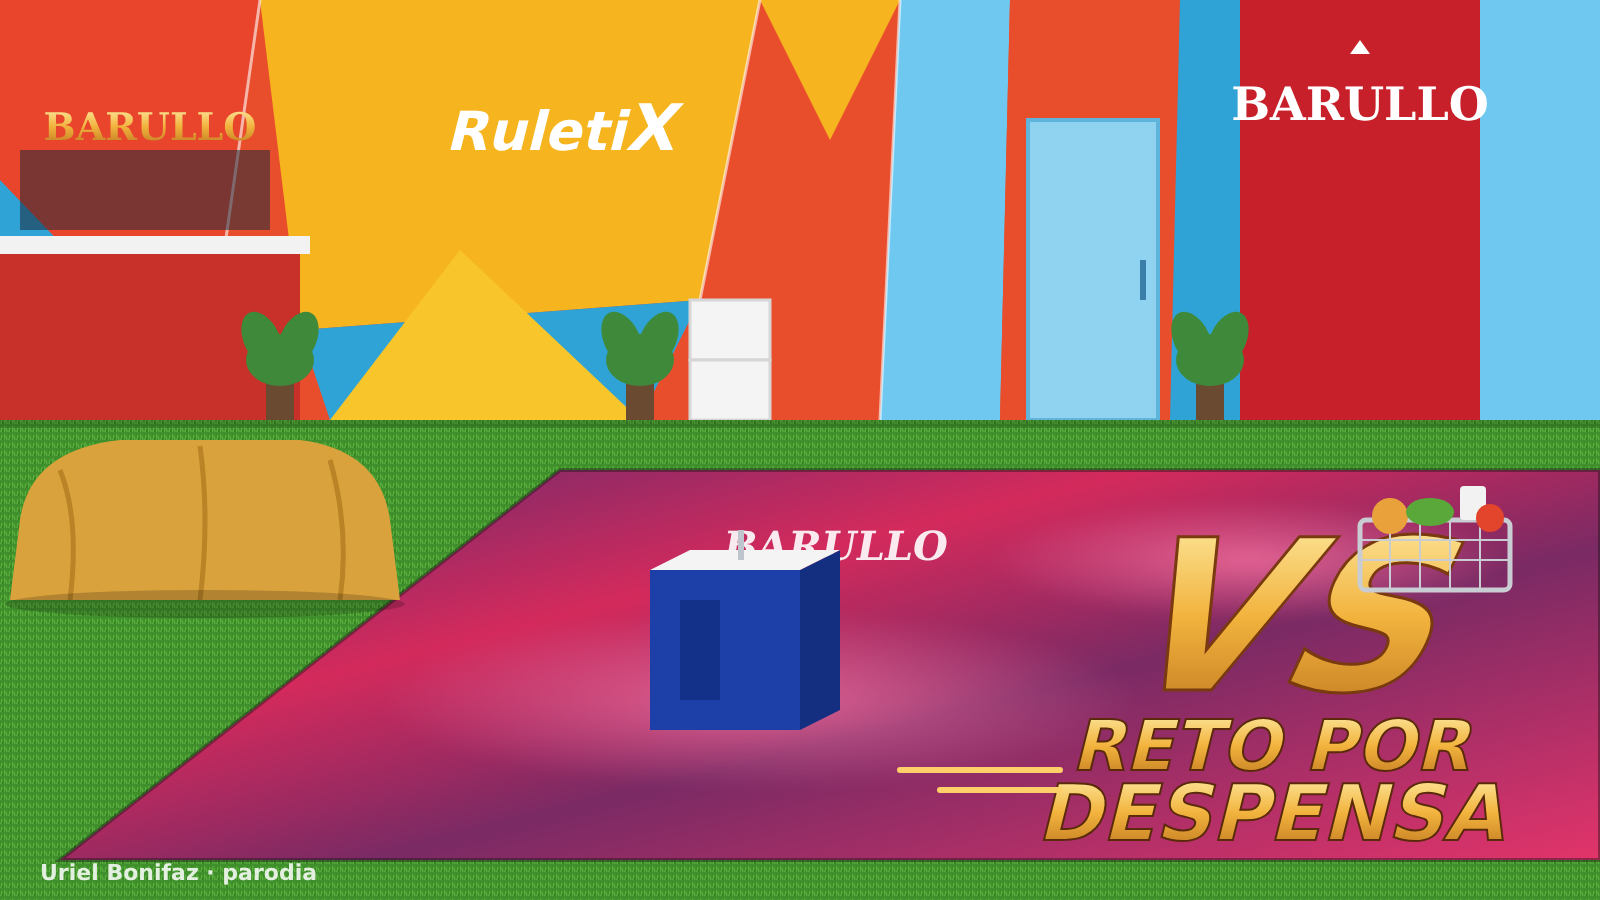
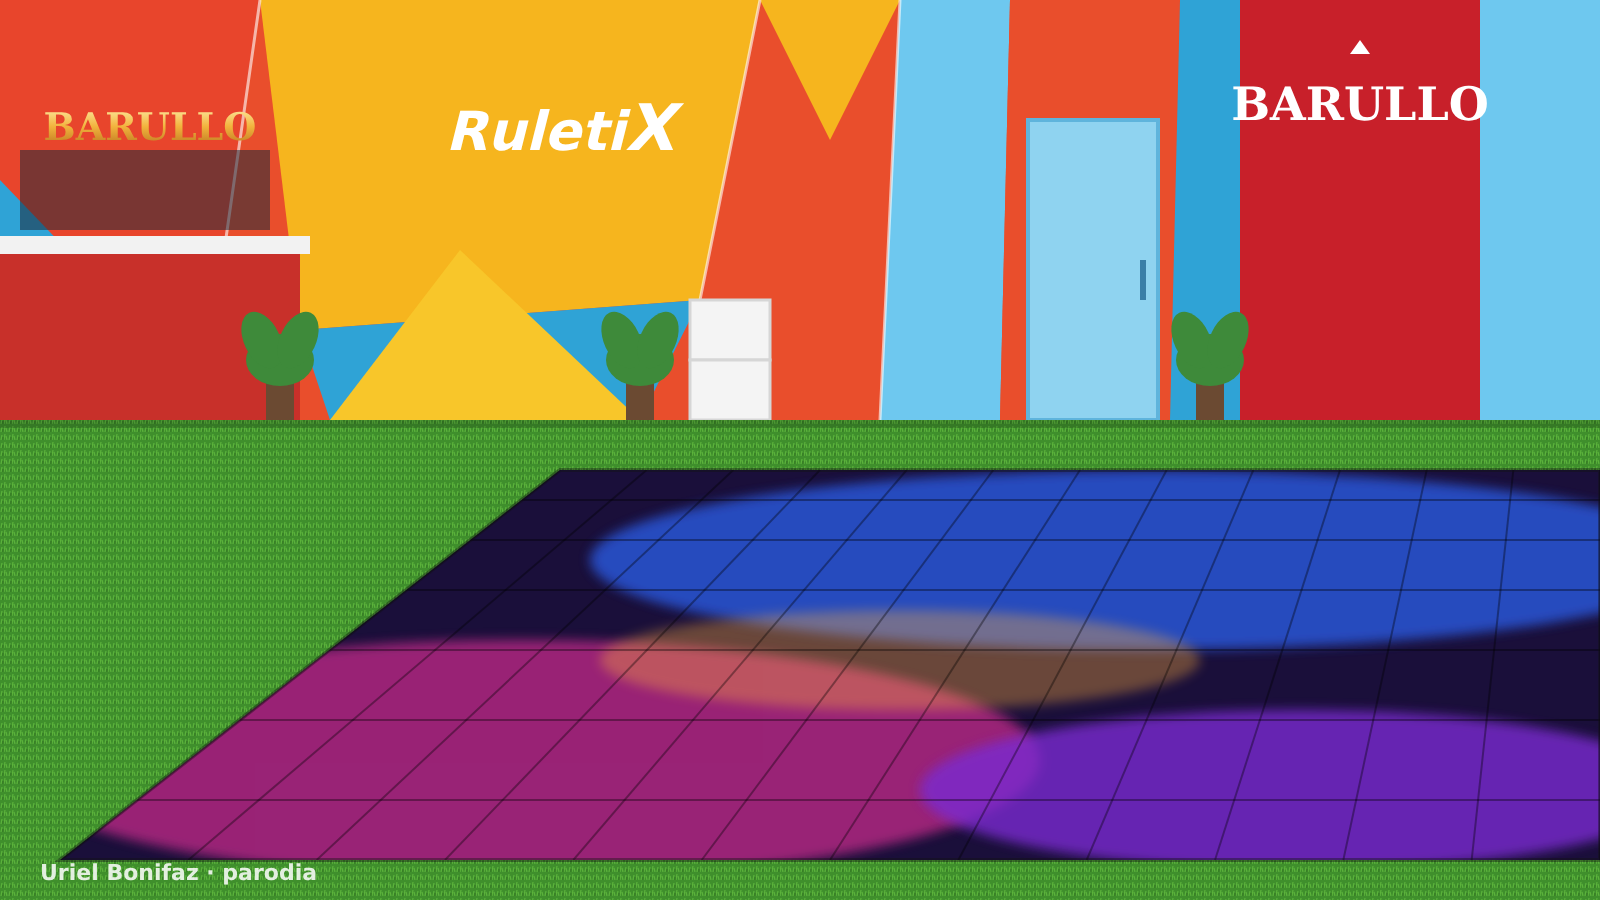
Foro: solo la pantalla LED gigante del piso, sin el tablero del evento
Claude-Session: https://claude.ai/code/session_013NxyycHgYKNLUfsg7CVYXq

diff --git a/mansion-vip/escenas.js b/mansion-vip/escenas.js
@@ -13,13 +13,14 @@ function pasto(x, y, w, h) {
 
 // ---------- Foro de retos con la pantalla LED del piso ----------
 function foroRetos(personajes = [], opciones = {}) {
-  const led = opciones.led || 'despensa';
+  const led = opciones.led || 'pantalla';  // 'pantalla' = la pantalla gigante del piso, sin evento
   let s = `<defs>
     <pattern id="pasto" width="8" height="8" patternUnits="userSpaceOnUse"><rect width="8" height="8" fill="#3f8f2c"/><path d="M1 8 L2 3 M4 8 L5 2 M7 8 L6 4" stroke="#5bb33b" stroke-width="1.2"/><path d="M3 8 L3 5" stroke="#2f7020" stroke-width="1"/></pattern>
     <linearGradient id="ledRojo" x1="0" y1="0" x2="1" y2="1"><stop offset="0" stop-color="#5a2a6e"/><stop offset=".35" stop-color="#d42a5c"/><stop offset=".6" stop-color="#7a2a64"/><stop offset="1" stop-color="#e2346a"/></linearGradient>
     <linearGradient id="ledAzul" x1="0" y1="0" x2="1" y2="0"><stop offset="0" stop-color="#0b2a7a"/><stop offset=".5" stop-color="#1e6ae0"/><stop offset="1" stop-color="#0b2a7a"/></linearGradient>
     <linearGradient id="oro" x1="0" y1="0" x2="0" y2="1"><stop offset="0" stop-color="#fff2b0"/><stop offset=".5" stop-color="#f2b33d"/><stop offset="1" stop-color="#b8701c"/></linearGradient>
     <radialGradient id="destello" cx=".5" cy=".5" r=".5"><stop offset="0" stop-color="#ff7aa8" stop-opacity=".7"/><stop offset="1" stop-color="#ff7aa8" stop-opacity="0"/></radialGradient>
+    <clipPath id="recorteLed"><polygon points="560,470 1600,470 1600,860 60,860"/></clipPath>
     <filter id="suave"><feGaussianBlur stdDeviation="6"/></filter>
   </defs>`;
   // pared de paneles geométricos
@@ -48,7 +49,14 @@ function foroRetos(personajes = [], opciones = {}) {
   s += `<rect x="0" y="420" width="1600" height="8" fill="#000" opacity=".15"/>`;
   // pantalla LED en el piso (en perspectiva)
   const ledPts = '560,470 1600,470 1600,860 60,860';
-  if (led === 'despensa') {
+  if (led === 'pantalla') {
+    // Pantalla LED gigante del piso, encendida sin ningún evento encima
+    s += `<polygon points="${ledPts}" fill="#1a0f3a"/>`;
+    s += `<g clip-path="url(#recorteLed)"><ellipse cx="520" cy="760" rx="520" ry="120" fill="#c42a8a" opacity=".75" filter="url(#suave)"/><ellipse cx="1150" cy="560" rx="560" ry="90" fill="#2a5ae0" opacity=".8" filter="url(#suave)"/><ellipse cx="1300" cy="790" rx="380" ry="80" fill="#7a2ad0" opacity=".8" filter="url(#suave)"/><ellipse cx="900" cy="660" rx="300" ry="50" fill="#ffb03a" opacity=".35" filter="url(#suave)"/>`;
+    for (let i = 0; i <= 12; i++) { const t = i / 12, x1 = 560 + (1600 - 560) * t, x2 = 60 + (1600 - 60) * t; s += `<path d="M${x1} 470 L${x2} 860" stroke="#000" stroke-width="2" opacity=".35"/>`; }
+    for (const y of [500, 540, 590, 650, 720, 800]) { const t = (y - 470) / 390, x = 560 - 500 * t; s += `<path d="M${x} ${y} L1600 ${y}" stroke="#000" stroke-width="2" opacity=".35"/>`; }
+    s += `</g>`;
+  } else if (led === 'despensa') {
     s += `<polygon points="${ledPts}" fill="url(#ledRojo)"/>`;
     s += `<ellipse cx="760" cy="700" rx="380" ry="90" fill="url(#destello)" filter="url(#suave)"/><ellipse cx="1250" cy="560" rx="260" ry="60" fill="url(#destello)" filter="url(#suave)"/>`;
     s += `<g transform="translate(0 0)"><text x="1270" y="690" font-family="DejaVu Sans" font-weight="700" font-style="italic" font-size="210" fill="url(#oro)" text-anchor="middle" transform="skewX(-12) translate(140 0)" stroke="#7a3a10" stroke-width="3">VS</text>`;
@@ -64,16 +72,16 @@ function foroRetos(personajes = [], opciones = {}) {
     s += `<path d="M560 470 L760 860 M900 470 L1000 860 M1250 470 L1300 860 M300 860 L700 600 L1600 640" stroke="#f2b33d" stroke-width="10" opacity=".8" fill="none"/><path d="M200 760 L1600 560" stroke="#7fd0ff" stroke-width="5" opacity=".7"/>`;
   }
   s += `<polygon points="${ledPts}" fill="none" stroke="#111" stroke-width="4" opacity=".4"/>`;
-  // coche tapado con lona mostaza
-  s += `<path d="M20 520 Q30 450 120 440 L300 440 Q380 450 390 520 L400 600 L10 600Z" fill="#d9a23c"/><path d="M60 470 Q80 520 70 600 M200 446 Q210 520 200 600 M330 460 Q350 530 340 600" stroke="#b98326" stroke-width="5" fill="none"/><ellipse cx="205" cy="604" rx="200" ry="14" fill="#000" opacity=".18"/>`;
+  // coche tapado con lona mostaza (solo en el evento del reto)
+  if (opciones.evento) s += `<path d="M20 520 Q30 450 120 440 L300 440 Q380 450 390 520 L400 600 L10 600Z" fill="#d9a23c"/><path d="M60 470 Q80 520 70 600 M200 446 Q210 520 200 600 M330 460 Q350 530 340 600" stroke="#b98326" stroke-width="5" fill="none"/><ellipse cx="205" cy="604" rx="200" ry="14" fill="#000" opacity=".18"/>`;
   // personajes en fila al fondo (pies sobre la línea del pasto)
   const n = personajes.length;
   personajes.forEach((p, i) => {
     const x = 800 + (i - (n - 1) / 2) * Math.min(80, 1100 / Math.max(n, 1)) + 150;
     s += colocar(p, x, 452, 240);
   });
-  // podio azul con tapa blanca (al frente)
-  s += `<g transform="translate(-330 10)"><polygon points="980,560 1130,560 1130,720 980,720" fill="#1d3fa8"/><polygon points="1130,560 1170,540 1170,700 1130,720" fill="#142e80"/><polygon points="980,560 1020,540 1170,540 1130,560" fill="#f4f4f4"/><rect x="1010" y="590" width="40" height="100" fill="#14318a"/><rect x="1068" y="520" width="6" height="30" fill="#bfc5cc"/></g>`;
+  // podio azul con tapa blanca (solo en el evento del reto)
+  if (opciones.evento) s += `<g transform="translate(-330 10)"><polygon points="980,560 1130,560 1130,720 980,720" fill="#1d3fa8"/><polygon points="1130,560 1170,540 1170,700 1130,720" fill="#142e80"/><polygon points="980,560 1020,540 1170,540 1130,560" fill="#f4f4f4"/><rect x="1010" y="590" width="40" height="100" fill="#14318a"/><rect x="1068" y="520" width="6" height="30" fill="#bfc5cc"/></g>`;
   // marca de la página
   s += `<text x="40" y="880" font-family="DejaVu Sans" font-weight="700" font-size="22" fill="#fff" opacity=".85">Uriel Bonifaz · parodia</text>`;
   return `<svg xmlns="http://www.w3.org/2000/svg" viewBox="0 0 1600 900">${s}</svg>`;

diff --git a/mansion-vip/herramientas/render-escenas.js b/mansion-vip/herramientas/render-escenas.js
@@ -7,7 +7,7 @@ const out = path.join(__dirname, '..', 'imagenes');
   const b = await chromium.launch();
   const pg = await b.newPage({ viewport: { width: 1600, height: 900 } });
   const g = ESPECIALES[0], fila = [g, ...ELENCO.filter(p => !['dani','abel'].includes(p.id)).slice(0, 12), g];
-  for (const [nombre, svg] of [['foro-retos.png', foroRetos(fila)], ['foro-retos-vacio.png', foroRetos([])], ['foro-retos-azul.png', foroRetos([], { led: 'azul' })]]) {
+  for (const [nombre, svg] of [['foro-retos.png', foroRetos(fila)], ['foro-retos-vacio.png', foroRetos([])]]) {
     await pg.setContent(`<html><body style="margin:0">${svg}</body><style>svg{width:1600px;height:900px;display:block}</style></html>`);
     await pg.screenshot({ path: path.join(out, nombre) });
   }
